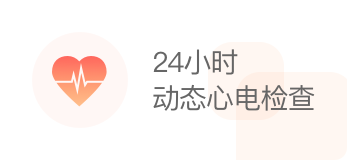
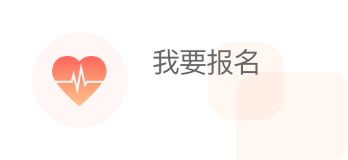
修改

Changed region(s): [[0.431, 0.5312, 0.9195, 0.7188], [0.431, 0.3125, 0.7471, 0.4688]]

diff --git a/src/pages/index/index.vue b/src/pages/index/index.vue
@@ -21,7 +21,7 @@
          <button open-type="contact" class="contact-btn"></button>
        </div>
      </div>
-     <div class="list">
+     <!-- <div class="list">
        <div class="list-img">
          <image src="/static/image/index/guide.png" mode="widthFix"></image>
          <button open-type="contact" class="contact-btn"></button>
@@ -29,17 +29,17 @@
        <div class="list-img" @click="editMessagePage">
          <image src="/static/image/index/contact.png" mode="widthFix"></image>
        </div>
-     </div>
+     </div> -->
 
-     <div class="category">
-       <p>病种分类</p>
+     <!-- <div class="category">
+       <p>分类</p>
        <ul>
          <li v-for="(item,index) in categoryList" :key="index" @click="detailPage(item.id)">{{item.name}}</li>
        </ul>
-     </div>
+     </div> -->
 
      <div class="recommend">
-        <p class="recommend-title">专家推荐</p>
+        <p class="recommend-title">推荐</p>
         <div class="recommend-option" @click="introducePage(item.id)" v-for="(item,index) in doctorList" :key="index">
           <div class="recommend-option-img">
             <image :src="item.atar"></image>

diff --git a/src/main.js b/src/main.js
@@ -46,12 +46,12 @@ export default {
         iconPath: '/static/image/index/home.png',
         selectedIconPath: '/static/image/index/home-select.png'
       }, {
-        text: '专家团队',
+        text: '专家介绍',
         pagePath: 'pages/team/team',
         iconPath: '/static/image/index/expert.png',
         selectedIconPath: '/static/image/index/expert-select.png'
       },{
-        text: '医院品牌',
+        text: '医院介绍',
         pagePath: 'pages/brand/brand',
         iconPath: '/static/image/index/brand.png',
         selectedIconPath: '/static/image/index/brand-select.png'

diff --git a/src/pages/introduce/index.vue b/src/pages/introduce/index.vue
@@ -11,7 +11,7 @@
          <span>{{detail.good_at}}</span>
        </p>
        <p class="introduce-text">{{detail.introduction}}</p>
-       <p class="introduce-btn" @click="editMessagePage">去问诊</p>
+       <!-- <p class="introduce-btn" @click="editMessagePage">去问诊</p> -->
      </div>
      <!-- <div class="introduce-container">
         <div class="introduce-content">
@@ -115,7 +115,7 @@ export default {
       margin-left: 20rpx;
       border-radius: 100rpx;
       min-width: 90rpx;
-      text-align: center;
+      text-align: left;
     }
   }
   .introduce-text{

diff --git a/src/pages/message/index.vue b/src/pages/message/index.vue
@@ -23,7 +23,7 @@
          <span>地址</span>
          <input type="text" v-model="address" placeholder="请输入地址"/>
        </div>
-       <p class="order-btn" @click="getPayOrder">立即支付</p>
+       <p class="order-btn" @click="getPayOrder">立即报名</p>
     </div>
   </div>
 </template>

diff --git a/src/pages/team/main.js b/src/pages/team/main.js
@@ -6,6 +6,6 @@ app.$mount()
 
 export default {
   config: {
-    navigationBarTitleText: '专家团队'
+    navigationBarTitleText: '专家介绍'
   }
 }
